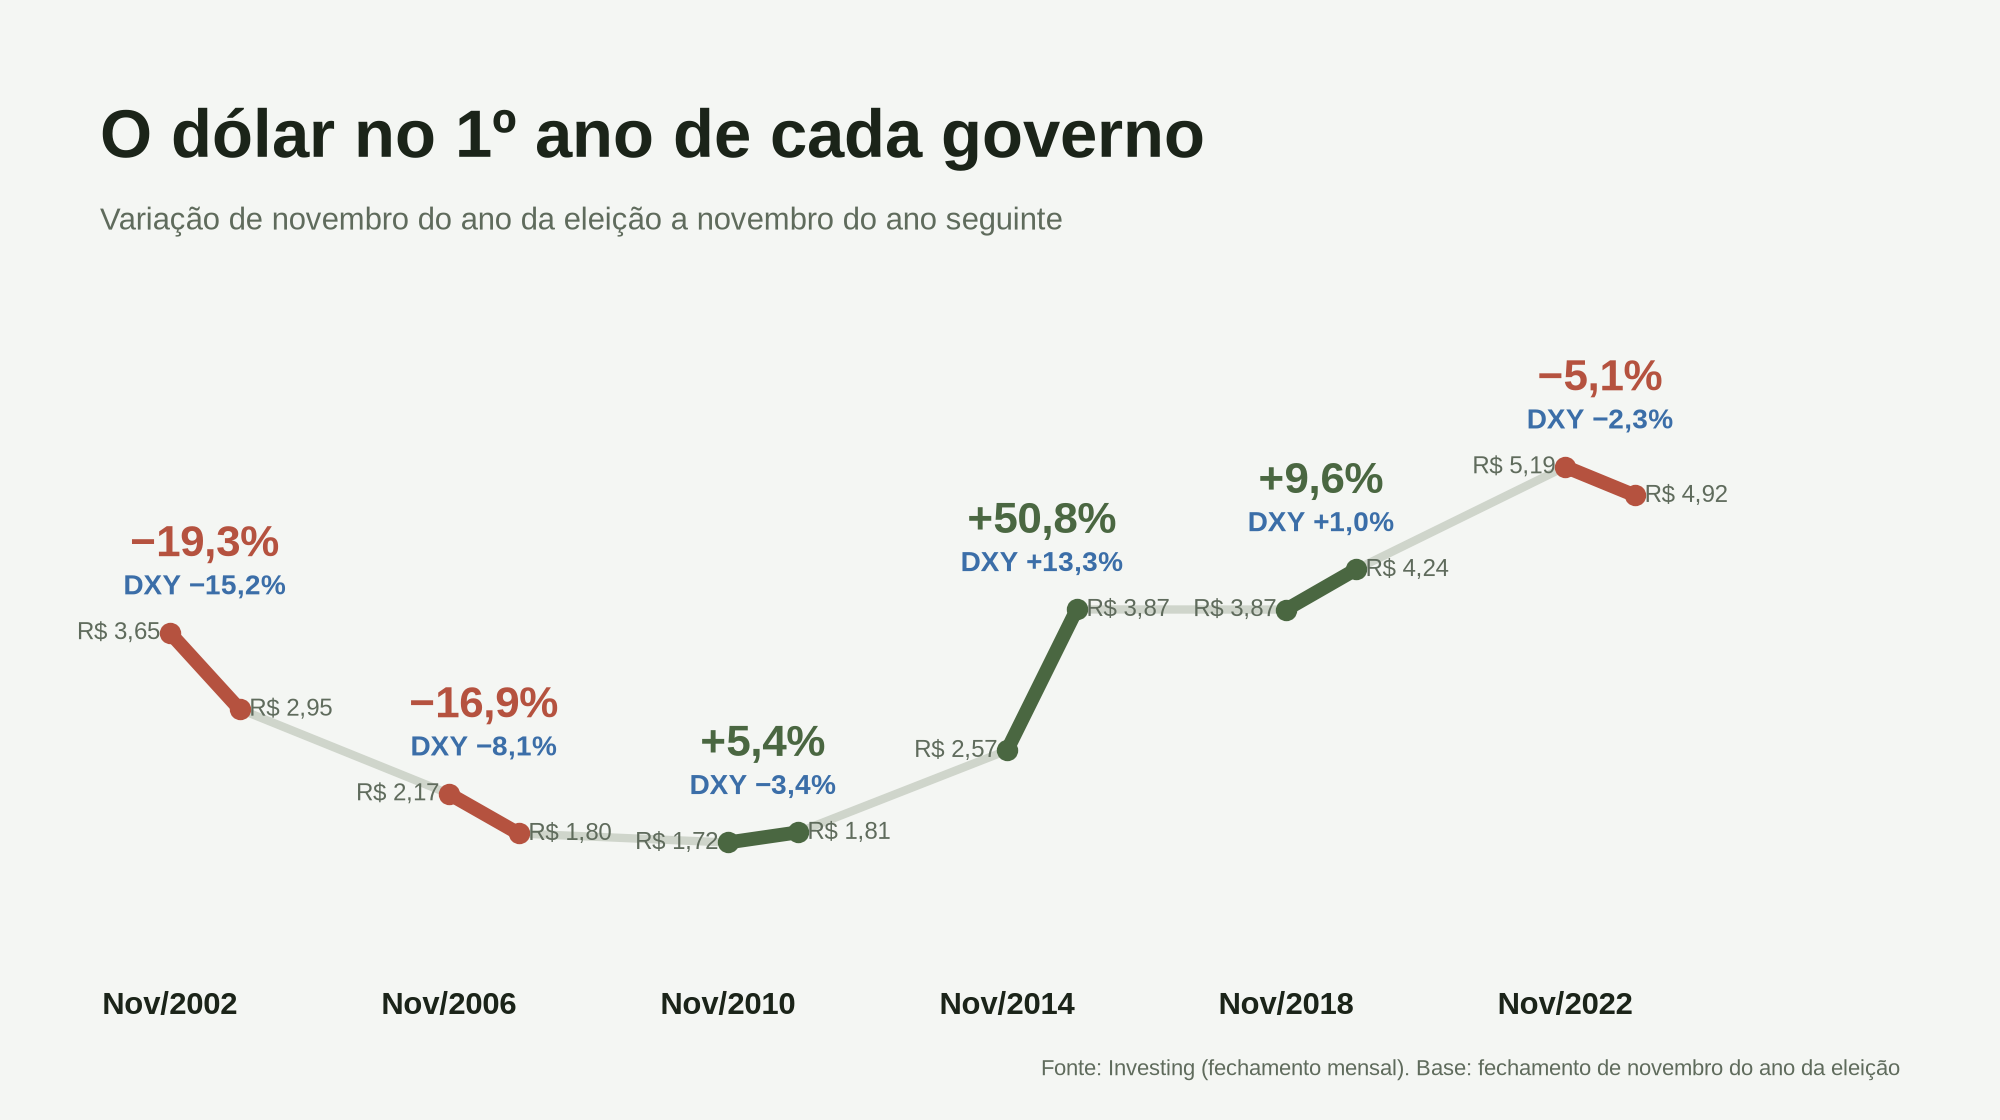
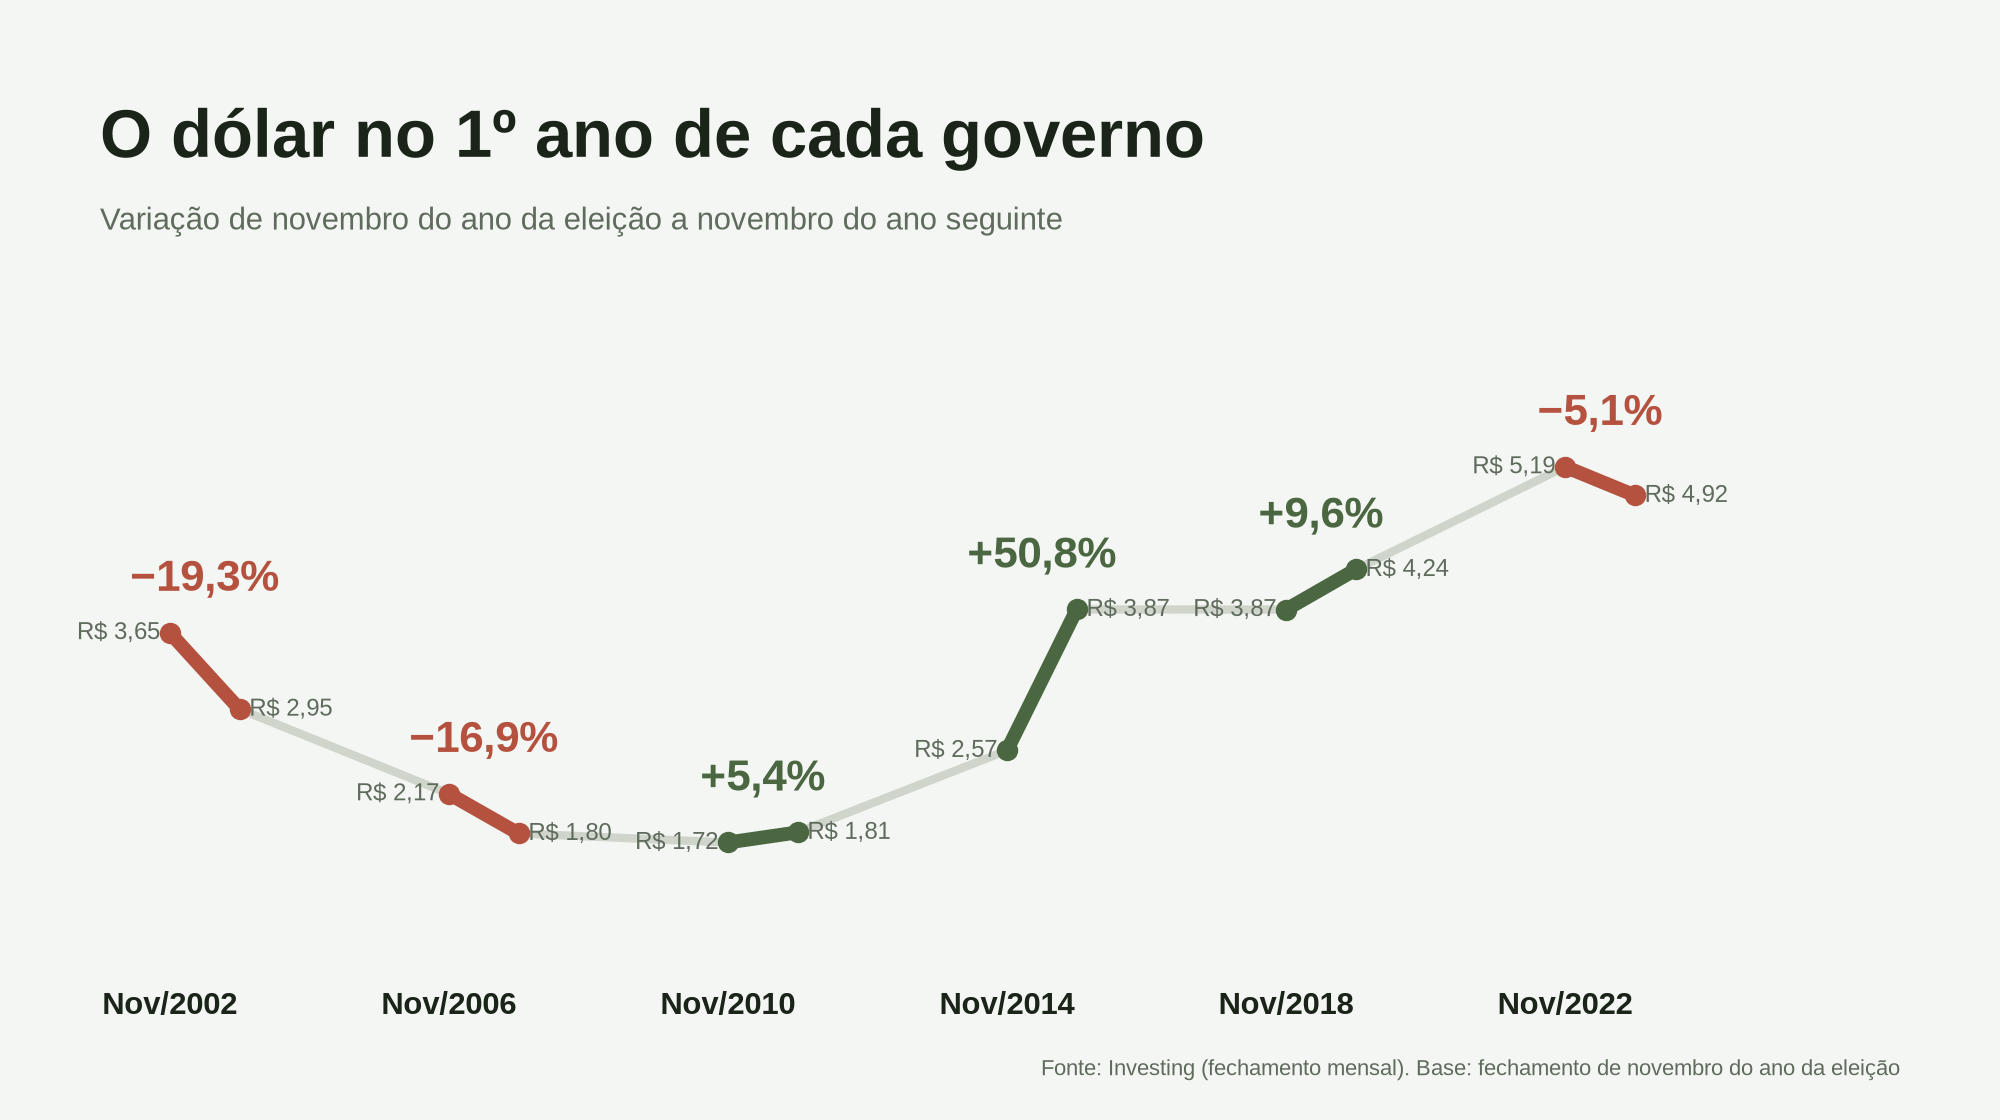
Remove DXY dos gráficos de 1 ano e ciclo de 4 anos
Claude-Session: https://claude.ai/code/session_0199Y78iJYXbJq94ojXAjU9F

diff --git a/graficos_nov_a_nov.py b/graficos_nov_a_nov.py
@@ -75,8 +75,7 @@ for e in ELEICOES:
     for x, dx, ha, k in ((e, -.14, "right", a), (e + 1, .14, "left", b)):
         ax.text(x + dx, brl[k], rs(brl[k]), ha=ha, va="center", fontsize=8.5, color=MUTED)
     y = max(brl[a], brl[b]) + .3
-    ax.text(e + .5, y + .32, rot(v), ha="center", va="bottom", fontsize=16, fontweight="bold", color=c)
-    ax.text(e + .5, y, f"DXY {rot(var(dxy, a, b))}", ha="center", va="bottom", fontsize=10, fontweight="bold", color=BLUE)
+    ax.text(e + .5, y, rot(v), ha="center", va="bottom", fontsize=16, fontweight="bold", color=c)
 xt(ax, ELEICOES, [f"Nov/{e}" for e in ELEICOES])
 fig.savefig("grafico_1_ano_nov_a_nov.png", facecolor=BG); plt.close(fig)
 
@@ -88,12 +87,11 @@ for i, e in enumerate(pts[:-1]):
     a, b = ciclo[e]; v = var(brl, a, b); c = cor(v); n = pts[i + 1]
     ax.plot([e, n], [brl[a], brl[b]], color=c, lw=5, solid_capstyle="round")
     ym = (brl[a] + brl[b]) / 2
-    ax.text((e + n) / 2 - .35, ym + 1.0, rot(v), ha="center", va="bottom", fontsize=16, fontweight="bold", color=c)
-    ax.text((e + n) / 2 - .35, ym + .68, f"DXY {rot(var(dxy, a, b))}", ha="center", va="bottom", fontsize=10, fontweight="bold", color=BLUE)
+    ax.text((e + n) / 2 - .35, ym + .7, rot(v), ha="center", va="bottom", fontsize=16, fontweight="bold", color=c)
 a, b = ciclo[2022]; v = var(brl, a, b)
 ax.plot([2022, 2026.75], [brl[a], brl[b]], color="#a5aca2", lw=5, ls=(0, (1, 1.6)), solid_capstyle="round")
 ax.scatter([2026.75], [brl[b]], s=40, color="#a5aca2", zorder=3)
-ax.text(2026.2, brl[b] - .5, f"até set/2026\n{rot(v)}\nDXY {rot(var(dxy, a, b))}", ha="center", va="top", fontsize=10, color=MUTED, fontweight="bold", linespacing=1.35)
+ax.text(2026.2, brl[b] - .5, f"até set/2026\n{rot(v)}", ha="center", va="top", fontsize=10, color=MUTED, fontweight="bold", linespacing=1.35)
 ax.scatter(pts, [brl[(e, 11)] for e in pts], s=110, color=BG, edgecolor=INK, lw=2.2, zorder=3)
 for e in pts: ax.text(e, brl[(e, 11)] - .28, rs(brl[(e, 11)]), ha="center", va="top", fontsize=10.5, color=INK)
 xt(ax, pts + [2026.75], [f"Nov/{e}" for e in pts] + ["Set/2026"])
@@ -114,7 +112,6 @@ for i, e in enumerate(ELEICOES):
     if i % 2 == 0: ax.axvspan(x0, x1, color="#eaeee7", zorder=0)
     m = (x0 + x1) / 2
     ax.text(m, 216, f"Dólar {rot(var(brl, a, b))}", color=UP, fontsize=10.5, fontweight="bold", ha="center", va="top")
-    ax.text(m, 202, f"DXY {rot(var(dxy, a, b))}", color=BLUE, fontsize=10.5, fontweight="bold", ha="center", va="top")
 ax.axhline(100, color=GRID, lw=1, zorder=0)
 ax.text(xs[-1] + .15, brl[HOJE] / b0 * 100, f"Dólar\n{rot(var(brl, (2002, 11), HOJE), 0)}\ndesde nov/2002", color=UP, fontsize=9.5, fontweight="bold", va="center")
 ax.text(xs[-1] + .15, dxy[HOJE] / d0 * 100, f"DXY\n{rot(var(dxy, (2002, 11), HOJE), 0)}", color=BLUE, fontsize=9.5, fontweight="bold", va="center")
